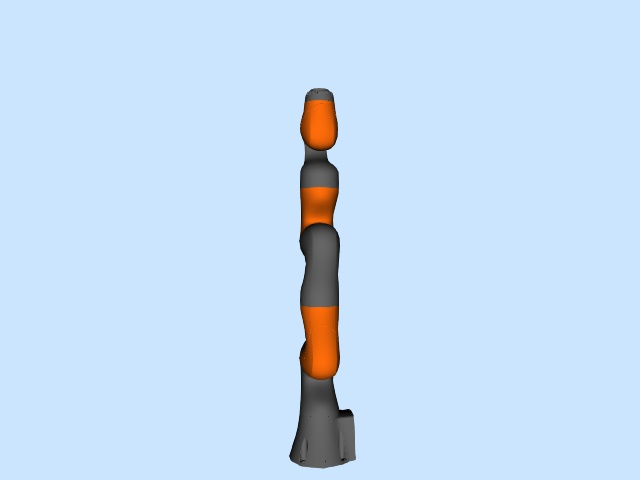
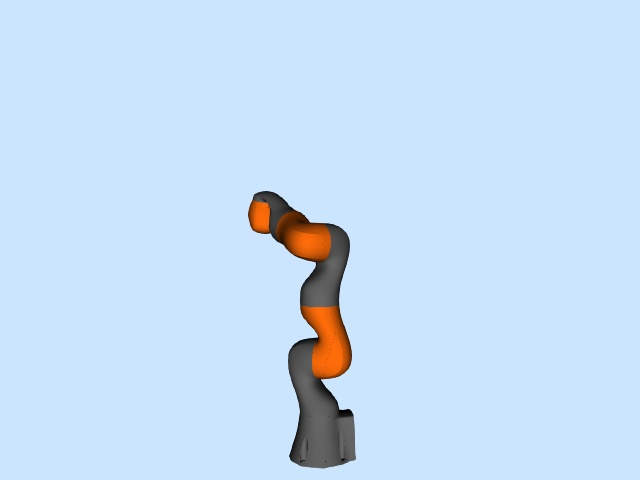
added support for individual arm movements

Changed region(s): [[0.375, 0.1875, 0.5625, 0.5938], [0.4375, 0.6562, 0.5625, 0.8438]]

diff --git a/DrakeDataCapture/data_generation_kuka_arm.py b/DrakeDataCapture/data_generation_kuka_arm.py
@@ -13,7 +13,7 @@ import cv2
 import keyboard
 import json
 sys.path.append('/home/jayaram/robot_manipulation_drake/Ropoes_project_code/dream_code')
-from dream_code.scripts.network_inference import network_inference
+#from dream_code.scripts.network_inference import network_inference
 
 from pydrake.common import FindResourceOrThrow, temp_directory
 from pydrake.geometry import (
@@ -51,6 +51,8 @@ from pydrake.systems.sensors import (
     CameraInfo,
     RgbdSensor,
 )
+
+from pydrake.all import InverseDynamicsController
 #from manipulation.scenarios import AddRgbdSensors
 
 # import torch
@@ -67,47 +69,47 @@ temp_dir = temp_directory()
 # Click the link and a MeshCat tab should appear in your browser.
 meshcat = StartMeshcat()
 
-class CameraSystem:
-    def __init__(self, idx, meshcat, diagram, context):
-        self.idx = idx
+# class CameraSystem:
+#     def __init__(self, idx, meshcat, diagram, context):
+#         self.idx = idx
         
-        # Read images
-        depth_im_read = diagram.GetOutputPort("camera{}_depth_image".format(idx)).Eval(context).data.squeeze()
-        self.depth_im = copy.deepcopy(depth_im_read)
-        self.depth_im[self.depth_im == np.inf] = 10.0
-        self.rgb_im = diagram.GetOutputPort('camera{}_rgb_image'.format(idx)).Eval(context).data
+#         # Read images
+#         depth_im_read = diagram.GetOutputPort("camera{}_depth_image".format(idx)).Eval(context).data.squeeze()
+#         self.depth_im = copy.deepcopy(depth_im_read)
+#         self.depth_im[self.depth_im == np.inf] = 10.0
+#         self.rgb_im = diagram.GetOutputPort('camera{}_rgb_image'.format(idx)).Eval(context).data
 
-        # Visualize
-        point_cloud = diagram.GetOutputPort("camera{}_point_cloud".format(idx)).Eval(context)
-        meshcat.SetObject(f"Camera {idx} point cloud", point_cloud)
+#         # Visualize
+#         point_cloud = diagram.GetOutputPort("camera{}_point_cloud".format(idx)).Eval(context)
+#         meshcat.SetObject(f"Camera {idx} point cloud", point_cloud)
 
-        # Get other info about the camera
-        cam = diagram.GetSubsystemByName('camera' +str(idx))
-        cam_context = cam.GetMyMutableContextFromRoot(context)
-        self.X_WC = cam.body_pose_in_world_output_port().Eval(cam_context)
-        self.cam_info = cam.depth_camera_info()
+#         # Get other info about the camera
+#         cam = diagram.GetSubsystemByName('camera' +str(idx))
+#         cam_context = cam.GetMyMutableContextFromRoot(context)
+#         self.X_WC = cam.body_pose_in_world_output_port().Eval(cam_context)
+#         self.cam_info = cam.depth_camera_info()
     
-    def project_depth_to_pC(self, depth_pixel):
-        """
-        project depth pixels to points in camera frame
-        using pinhole camera model
-        Input:
-            depth_pixels: numpy array of (nx3) or (3,)
-        Output:
-            pC: 3D point in camera frame, numpy array of (nx3)
-        """
-        # switch u,v due to python convention
-        v = depth_pixel[:,0]
-        u = depth_pixel[:,1]
-        Z = depth_pixel[:,2]
-        cx = self.cam_info.center_x()
-        cy = self.cam_info.center_y()
-        fx = self.cam_info.focal_x()
-        fy = self.cam_info.focal_y()
-        X = (u-cx) * Z/fx
-        Y = (v-cy) * Z/fy
-        pC = np.c_[X,Y,Z]
-        return pC
+#     def project_depth_to_pC(self, depth_pixel):
+#         """
+#         project depth pixels to points in camera frame
+#         using pinhole camera model
+#         Input:
+#             depth_pixels: numpy array of (nx3) or (3,)
+#         Output:
+#             pC: 3D point in camera frame, numpy array of (nx3)
+#         """
+#         # switch u,v due to python convention
+#         v = depth_pixel[:,0]
+#         u = depth_pixel[:,1]
+#         Z = depth_pixel[:,2]
+#         cx = self.cam_info.center_x()
+#         cy = self.cam_info.center_y()
+#         fx = self.cam_info.focal_x()
+#         fy = self.cam_info.focal_y()
+#         X = (u-cx) * Z/fx
+#         Y = (v-cy) * Z/fy
+#         pC = np.c_[X,Y,Z]
+#         return pC
 
 # To inspect our own URDF files.
 def model_inspector(filename): # filename will be model's sdf or urdf file
@@ -199,7 +201,7 @@ def create_scene(sim_time_step=0.0001, n_cameras = 1, n_tracks = 1):
 
     # Load iiwa arm in simulator.
     model_sdf = FindResourceOrThrow("drake/manipulation/models/iiwa_description/iiwa7/iiwa7_with_box_collision.sdf")
-    iiwa_1 = parser.AddModelFromFile(model_sdf, model_name = "iiwa_1")
+    model = parser.AddModelFromFile(model_sdf, model_name = "iiwa_1")
 
     # Weld the arm to the world so that it's fixed during the simulation.
     #model_frame = plant.GetFrameByName("table_top_center")
@@ -207,7 +209,7 @@ def create_scene(sim_time_step=0.0001, n_cameras = 1, n_tracks = 1):
     # Welding multi link robot on a particular pose
     plant.WeldFrames(
         frame_on_parent_P=plant.world_frame(),
-        frame_on_child_C=plant.GetFrameByName("iiwa_link_0", iiwa_1),
+        frame_on_child_C=plant.GetFrameByName("iiwa_link_0", model),
         X_PC=xyz_rpy_deg([0, 0, 0], [0, 0, 0]),
     )
 
@@ -260,7 +262,7 @@ def create_scene(sim_time_step=0.0001, n_cameras = 1, n_tracks = 1):
             R = np.array(X_WB.rotation().matrix())
             t = X_WB.translation()
             intrinsic_matrix = intrinsics.intrinsic_matrix()
-            P = intrinsic_matrix @ np.vstack((np.hstack((R, t)), np.array([0, 0, 0, 1]).reshape(1, -1)))
+            P = intrinsic_matrix @ np.vstack((np.hstack((R, t.reshape(-1, 1)))))
             projection_matrices.append(P)
 
             # print('rotation matrix: {}'.format(type(np.array(X_WB_2.rotation().matrix()))))
@@ -278,6 +280,7 @@ def create_scene(sim_time_step=0.0001, n_cameras = 1, n_tracks = 1):
             )
             sensors.append(sensor)
 
+
     # Finalize the plant after loading the scene.
     plant.Finalize()
     # We use the default context to calculate the transformation of the table
@@ -288,6 +291,8 @@ def create_scene(sim_time_step=0.0001, n_cameras = 1, n_tracks = 1):
     visualizer = MeshcatVisualizer.AddToBuilder(
         builder, scene_graph, meshcat,
         MeshcatVisualizerParams(role=Role.kPerception, prefix="visual"))
+    
+    iiwa_controller = iiwa_controller_fn(builder, plant, model)
 
     diagram = builder.Build()
 
@@ -295,7 +300,7 @@ def create_scene(sim_time_step=0.0001, n_cameras = 1, n_tracks = 1):
     # sensors.append(CameraSystem(0, meshcat, diagram, context))
     # sensors.append(CameraSystem(1, meshcat, diagram, context))
 
-    return diagram, visualizer, scene_graph, sensors, projection_matrices
+    return diagram, builder, plant, visualizer, scene_graph, iiwa_controller, sensors, model, projection_matrices
 
 
 def initialize_simulation(diagram):
@@ -340,20 +345,51 @@ def triangulation_DLT(P1, P2, kp1, kp2):
 def get_3d_joints():
     pass
 
-def orient_arms(scene_graph, sensor, context, camera_no, track_no, sim_count_pic):
+def iiwa_controller_fn(builder, plant, model):
+    Kp = np.full(7, 100)
+    Ki = 2 * np.sqrt(Kp)
+    Kd = np.full(7, 1)
+    iiwa_controller = builder.AddSystem(InverseDynamicsController(plant, Kp, Ki, Kd, False))
+    iiwa_controller.set_name("iiwa_controller")
+    #create feedback loop
+    #plant state output to controller input
+    #controller output to plant actuation input
+    builder.Connect(plant.get_state_output_port(model),
+                    iiwa_controller.get_input_port_estimated_state())
+    builder.Connect(iiwa_controller.get_output_port_control(),
+                    plant.get_actuation_input_port())
+
+    return iiwa_controller
+
+def iiwa_position_set(context, plant, diagram, iiwa_controller, position_vector):    
+    #extract context from the diagram
+    # context = diagram.CreateDefaultContext()
+    #extract plant context from the full context
+    plant_context = plant.GetMyMutableContextFromRoot(context)
+    q0 = q0 = np.array(position_vector)
+    x0 = np.hstack((q0, 0*q0))
+    plant.SetPositions(plant_context, q0)
+    iiwa_controller.GetInputPort('desired_state').FixValue(iiwa_controller.GetMyMutableContextFromRoot(context), x0)
+    return context
+
+def orient_arms(diagram, builder, plant, visualizer, scene_graph, iiwa_controller, model, sensor, context, camera_no, track_no, sim_count_pic):
     #step1: get arm from scene
     diagram_context = context #diagram.CreateDefaultContext()
     sensor_context = sensor.GetMyMutableContextFromRoot(diagram_context)
     sg_context = scene_graph.GetMyMutableContextFromRoot(diagram_context)
-    color = sensor.color_image_output_port().Eval(sensor_context).data   #rgb image
-    depth = sensor.depth_image_32F_output_port().Eval(sensor_context).data.squeeze(2)
+    # color = sensor.color_image_output_port().Eval(sensor_context).data   #rgb image
+    # depth = sensor.depth_image_32F_output_port().Eval(sensor_context).data.squeeze(2)
 
     #step2: change individual link positions
+    # iiwa_controller = iiwa_controller_fn(builder, plant, model)
+    position_vector = [1, 0.7, 1, 1.3, 1.5, 0.5, 0.3]   #these are angles in radians at each joint
+    context = iiwa_position_set(context, plant, diagram, iiwa_controller, position_vector)
 
     #step3: get 3d points in that particular arm conf
     key_points_3d = get_3d_joints()
 
-    #step4: Take pic after orienting diff inks in arm
+    #step4: Take pic after orienting diff inks in arm 
+    # Note: latest context is required for takePic fn
     color, depth, arm_conf_name = takePic(scene_graph, sensor, context, camera_no, track_no, sim_count_pic)
     
     return key_points_3d, color, depth, arm_conf_name
@@ -397,24 +433,30 @@ def generate_dataset(args, sim_time_step):
     #transformations b/w every pair of cameras in multi camera system
     n_cameras = 10
     n_tracks = 4
-    diagram, visualizer, scene_graph, sensors, projection_matrices = create_scene(sim_time_step, n_cameras, n_tracks)
+    diagram, builder, plant, visualizer, scene_graph, iiwa_controller, sensors, model, projection_matrices = create_scene(sim_time_step, n_cameras, n_tracks)
 
     print('total no of sensors: {}'.format(len(sensors)))
     simulator = initialize_simulation(diagram)
     for track_no in range(n_tracks):
         for camera_no in range(n_cameras):
+            n_times = 0
             n_arm_conf = 0  #conf of arm in current camera position
             while(True):    # we can orient diff joints of arm and take pic (TakePic is called inside orient_arms)
-                key_points_3d, color, depth, arm_conf_name = orient_arms(scene_graph, sensors[(track_no * n_cameras) + camera_no], diagram.CreateDefaultContext(), camera_no, track_no, sim_count_pic)
+                key_points_3d, color, depth, arm_conf_name = orient_arms(diagram, builder, plant, visualizer, scene_graph, iiwa_controller, model, sensors[(track_no * n_cameras) + camera_no], diagram.CreateDefaultContext(), camera_no, track_no, sim_count_pic)
                 images_sensors.append((color, depth))
                 n_arm_conf = n_arm_conf + 1
 
                 P = projection_matrices[(track_no * n_cameras) + camera_no]
                 #create json file based on the above information of 3d key points of joints and Projection matrix of current sensor
-                create_json(arm_conf_name, P, key_points_3d)
+                #create_json(arm_conf_name, P, key_points_3d)
 
-                if(keyboard.is_pressed('q')):
+                if(n_times == 5):
                     break
+
+                # if(keyboard.is_pressed('q')):
+                #     break
+
+                n_times = n_times + 1
 
     # model_file = 'clutter_maskrcnn_model.pt'
     # if not os.path.exists(model_file):
